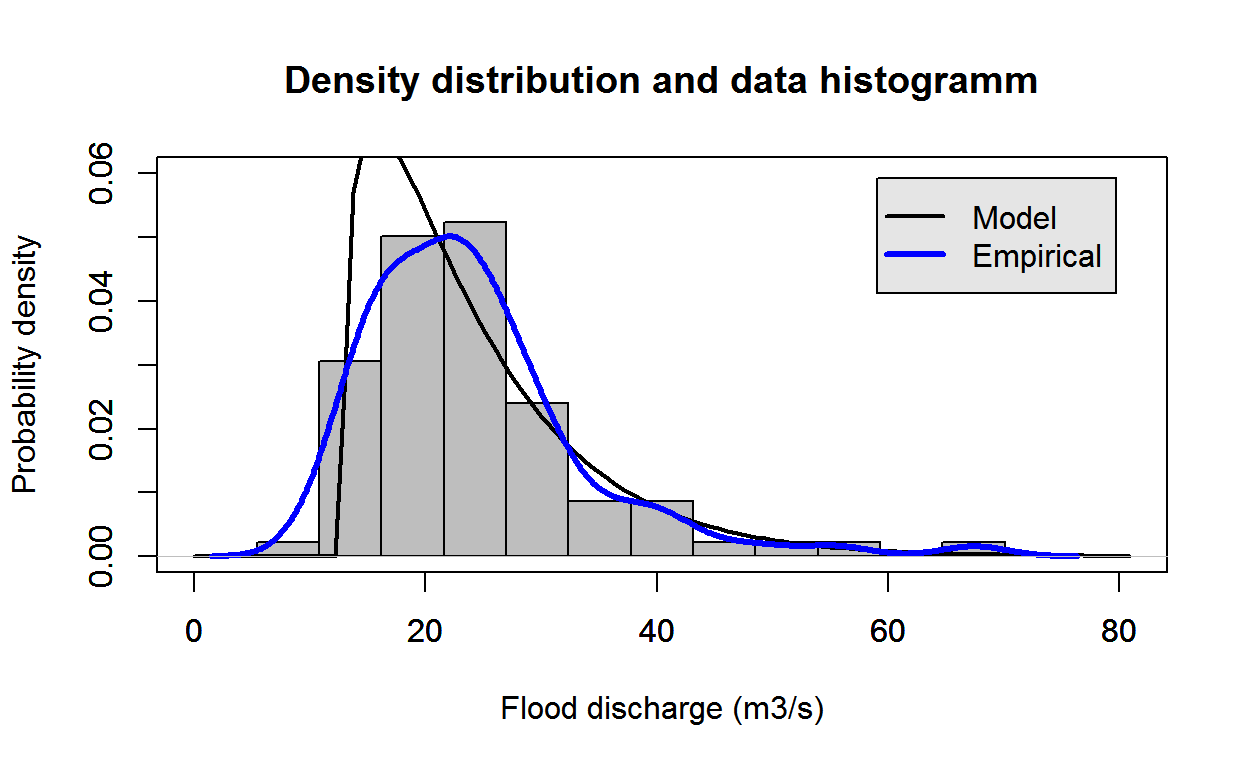
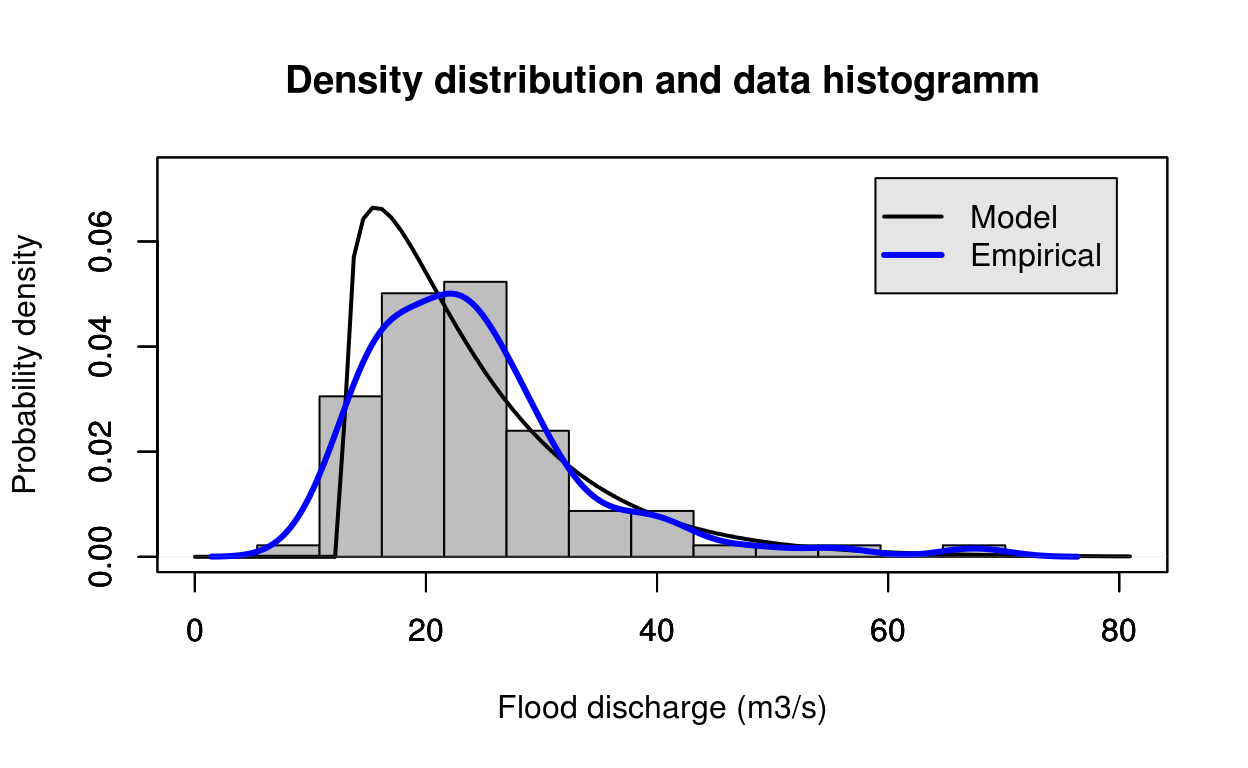
Travis update of gh-pages

diff --git a/rd.html b/rd.html
@@ -202,9 +202,9 @@ param Estimated parameters (2) and standard error returned as a list($estimate, 
 <h4>
 Examples
 </h4>
-<pre class="r"><code>library(FlomKart)
+<pre class="r"><code>library(FlomKartShinyApp)
 estimate = gamma_Lmom(test_data)
-plot_density(test_data, param = estimate, distr = &quot;gamma&quot;)</code></pre>
+FlomKartShinyApp::plot4server(test_data, param = estimate$estimate, distr = 2)</code></pre>
 <p><img src="rd_files/figure-html/gamma_Lmom_id_2-1.png" width="624" /></p>
 </div>
 <div id="gamma_mle" class="section level2">
@@ -242,9 +242,9 @@ param Estimated parameters (2) and standard error returned as a list($estimate, 
 <h4>
 Examples
 </h4>
-<pre class="r"><code>library(FlomKart)
+<pre class="r"><code>library(FlomKartShinyApp)
 estimate = gamma_mle(test_data)
-plot_density(test_data, param = estimate, distr = &quot;gamma&quot;)</code></pre>
+FlomKartShinyApp::plot4server(test_data, param = estimate$estimate, distr = 2)</code></pre>
 <p><img src="rd_files/figure-html/gamma_mle_id_3-1.png" width="624" /></p>
 </div>
 <div id="gamma_mom" class="section level2">
@@ -282,9 +282,9 @@ param Estimated parameters (2) and standard error returned as a list($estimate, 
 <h4>
 Examples
 </h4>
-<pre class="r"><code>library(FlomKart)
+<pre class="r"><code>library(FlomKartShinyApp)
 estimate = gamma_mom(test_data)
-plot_density(test_data, param = estimate, distr = &quot;gamma&quot;)</code></pre>
+FlomKartShinyApp::plot4server(test_data, param = estimate$estimate, distr = 2)</code></pre>
 <p><img src="rd_files/figure-html/gamma_mom_id_4-1.png" width="624" /></p>
 </div>
 <div id="get_posterior_gev" class="section level2">
@@ -454,9 +454,9 @@ param Estimated parameters and standard error returned as a list($estimate, $se)
 <h4>
 Examples
 </h4>
-<pre class="r"><code>library(FlomKart)
+<pre class="r"><code>library(FlomKartShinyApp)
 estimate = gev_bayes(test_data)
-plot_density(test_data, param = estimate, distr = &quot;gev&quot;)</code></pre>
+FlomKartShinyApp::plot4server(test_data, param = estimate$estimate, distr = 3)</code></pre>
 <p><img src="rd_files/figure-html/gev_bayes_id_9-1.png" width="624" /></p>
 </div>
 <div id="gev_lmom" class="section level2">
@@ -494,9 +494,9 @@ param Estimated parameters and standard error returned as a list($estimate, $se)
 <h4>
 Examples
 </h4>
-<pre class="r"><code>library(FlomKart)
+<pre class="r"><code>library(FlomKartShinyApp)
 estimate = gev_Lmom(test_data)
-plot_density(test_data, param = estimate, distr = &quot;gev&quot;)</code></pre>
+FlomKartShinyApp::plot4server(test_data, param = estimate$estimate, distr = 3)</code></pre>
 <p><img src="rd_files/figure-html/gev_Lmom_id_10-1.png" width="624" /></p>
 <h4>
 See also
@@ -538,9 +538,9 @@ param Estimated parameters and standard error returned as a list($estimate, $se)
 <h4>
 Examples
 </h4>
-<pre class="r"><code>library(FlomKart)
+<pre class="r"><code>library(FlomKartShinyApp)
 estimate = gev_mle(test_data)
-plot_density(test_data, param = estimate, distr = &quot;gev&quot;)</code></pre>
+FlomKartShinyApp::plot4server(test_data, param = estimate$estimate, distr = 3)</code></pre>
 <p><img src="rd_files/figure-html/gev_mle_id_11-1.png" width="624" /></p>
 <h4>
 See also
@@ -582,9 +582,9 @@ param Estimated parameters and standard error returned as a list($estimate, $se)
 <h4>
 Examples
 </h4>
-<pre class="r"><code>library(FlomKart)
+<pre class="r"><code>library(FlomKartShinyApp)
 estimate = gev_mom(test_data)
-plot_density(test_data, param = estimate, distr = &quot;gev&quot;)</code></pre>
+FlomKartShinyApp::plot4server(test_data, param = estimate$estimate, distr = 3)</code></pre>
 <p><img src="rd_files/figure-html/gev_mom_id_12-1.png" width="624" /></p>
 <h4>
 See also
@@ -626,9 +626,9 @@ param Estimated parameters and standard error returned as a list($estimate, $se)
 <h4>
 Examples
 </h4>
-<pre class="r"><code>library(FlomKart)
+<pre class="r"><code>library(FlomKartShinyApp)
 estimate = gl_bayes(test_data)
-plot_density(test_data, param = estimate, distr = &quot;gl&quot;)</code></pre>
+FlomKartShinyApp::plot4server(test_data, param = estimate$estimate, distr = 4)</code></pre>
 <pre><code>## Warning in log(1 - k * (x - xi)/alfa): NaNs produced</code></pre>
 <p><img src="rd_files/figure-html/gl_bayes_id_13-1.png" width="624" /></p>
 </div>
@@ -667,9 +667,9 @@ param Estimated parameters and standard error returned as a list($estimate, $se)
 <h4>
 Examples
 </h4>
-<pre class="r"><code>library(FlomKart)
+<pre class="r"><code>library(FlomKartShinyApp)
 estimate = gl_Lmom(test_data)
-plot_density(test_data, param = estimate, distr = &quot;gl&quot;)</code></pre>
+FlomKartShinyApp::plot4server(test_data, param = estimate$estimate, distr = 4)</code></pre>
 <pre><code>## Warning in log(1 - k * (x - xi)/alfa): NaNs produced</code></pre>
 <p><img src="rd_files/figure-html/gl_Lmom_id_14-1.png" width="624" /></p>
 </div>
@@ -685,7 +685,7 @@ Function to fit the GL distribution with the maximum likelihood method. This fun
 <h4>
 Usage
 </h4>
-<pre class="r"><code><div>gl_mle(xdat, ydat&nbsp;=&nbsp;NULL, mul&nbsp;=&nbsp;NULL, sigl&nbsp;=&nbsp;NULL, shl&nbsp;=&nbsp;NULL, mulink&nbsp;=&nbsp;identity, siglink&nbsp;=&nbsp;identity, shlink&nbsp;=&nbsp;identity, muinit&nbsp;=&nbsp;NULL, siginit&nbsp;=&nbsp;NULL, shinit&nbsp;=&nbsp;NULL, show&nbsp;=&nbsp;TRUE, method&nbsp;=&nbsp;"Nelder-Mead", maxit&nbsp;=&nbsp;10000, ...)</div></code></pre>
+<pre class="r"><code><div>gl_mle(xdat, ydat&nbsp;=&nbsp;NULL, mul&nbsp;=&nbsp;NULL, sigl&nbsp;=&nbsp;NULL, shl&nbsp;=&nbsp;NULL, mulink&nbsp;=&nbsp;identity, siglink&nbsp;=&nbsp;identity, shlink&nbsp;=&nbsp;identity, muinit&nbsp;=&nbsp;NULL, siginit&nbsp;=&nbsp;NULL, shinit&nbsp;=&nbsp;NULL, show&nbsp;=&nbsp;FALSE, method&nbsp;=&nbsp;"Nelder-Mead", maxit&nbsp;=&nbsp;10000, ...)</div></code></pre>
 <h4>
 Arguments
 </h4>
@@ -708,9 +708,9 @@ param Estimated parameters and standard error returned as a list($estimate, $se)
 <h4>
 Examples
 </h4>
-<pre class="r"><code>library(FlomKart)
+<pre class="r"><code>library(FlomKartShinyApp)
 estimate = gl_mle(test_data)
-plot_density(test_data, param = estimate, distr = &quot;gl&quot;)</code></pre>
+FlomKartShinyApp::plot4server(test_data, param = estimate$estimate, distr = 4)</code></pre>
 <pre><code>## Warning in log(1 - k * (x - xi)/alfa): NaNs produced</code></pre>
 <p><img src="rd_files/figure-html/gl_mle_id_15-1.png" width="624" /></p>
 </div>
@@ -749,9 +749,9 @@ param Estimated parameters and standard error returned as a list($estimate, $se)
 <h4>
 Examples
 </h4>
-<pre class="r"><code>library(FlomKart)
+<pre class="r"><code>library(FlomKartShinyApp)
 estimate = gl_mom(test_data)
-plot_density(test_data, param = estimate, distr = &quot;gl&quot;)</code></pre>
+FlomKartShinyApp::plot4server(test_data, param = estimate$estimate, distr = 4)</code></pre>
 <p><img src="rd_files/figure-html/gl_mom_id_16-1.png" width="624" /></p>
 </div>
 <div id="gumbel_bayes" class="section level2">
@@ -789,9 +789,9 @@ param Estimated parameters and standard error returned as a list($estimate, $se)
 <h4>
 Examples
 </h4>
-<pre class="r"><code>library(FlomKart)
+<pre class="r"><code>library(FlomKartShinyApp)
 estimate = gumbel_bayes(test_data)
-plot_density(test_data, param = estimate, distr = &quot;gumbel&quot;)</code></pre>
+FlomKartShinyApp::plot4server(test_data, param = estimate$estimate, distr = 1)</code></pre>
 <p><img src="rd_files/figure-html/gumbel_bayes_id_17-1.png" width="624" /></p>
 </div>
 <div id="gumbel_lmom" class="section level2">
@@ -829,9 +829,9 @@ param Estimated parameters (2) and standard error returned as a list($estimate, 
 <h4>
 Examples
 </h4>
-<pre class="r"><code>library(FlomKart)
+<pre class="r"><code>library(FlomKartShinyApp)
 estimate = gumbel_Lmom(test_data)
-plot_density(test_data, param = estimate, distr = &quot;gumbel&quot;)</code></pre>
+FlomKartShinyApp::plot4server(test_data, param = estimate$estimate, distr = 1)</code></pre>
 <p><img src="rd_files/figure-html/gumbel_Lmom_id_18-1.png" width="624" /></p>
 </div>
 <div id="gumbel_mle" class="section level2">
@@ -869,9 +869,9 @@ param Estimated parameters (2) and standard error returned as a list($estimate, 
 <h4>
 Examples
 </h4>
-<pre class="r"><code>library(FlomKart)
+<pre class="r"><code>library(FlomKartShinyApp)
 estimate = gumbel_mle(test_data)
-plot_density(test_data, param = estimate, distr = &quot;gumbel&quot;)</code></pre>
+FlomKartShinyApp::plot4server(test_data, param = estimate$estimate, distr = 1)</code></pre>
 <p><img src="rd_files/figure-html/gumbel_mle_id_19-1.png" width="624" /></p>
 </div>
 <div id="gumbel_mom" class="section level2">
@@ -909,9 +909,9 @@ param Estimated parameters (2) and standard error returned as a list($estimate, 
 <h4>
 Examples
 </h4>
-<pre class="r"><code>library(FlomKart)
+<pre class="r"><code>library(FlomKartShinyApp)
 estimate = gumbel_mom(test_data)
-plot_density(test_data, param = estimate, distr = &quot;gumbel&quot;)</code></pre>
+FlomKartShinyApp::plot4server(test_data, param = estimate$estimate, distr = 1)</code></pre>
 <p><img src="rd_files/figure-html/gumbel_mom_id_20-1.png" width="624" /></p>
 </div>
 <div id="pearson_bayes" class="section level2">
@@ -949,9 +949,9 @@ param Estimated parameters and standard error returned as a list($estimate, $se)
 <h4>
 Examples
 </h4>
-<pre class="r"><code>library(FlomKart)
+<pre class="r"><code>library(FlomKartShinyApp)
 estimate = pearson_bayes(test_data)
-plot_density(test_data, param = estimate, distr = &quot;pearson&quot;)</code></pre>
+FlomKartShinyApp::plot4server(test_data, param = estimate$estimate, distr = 5)</code></pre>
 <p><img src="rd_files/figure-html/pearson_bayes_id_21-1.png" width="624" /></p>
 </div>
 <div id="pearson_lmom" class="section level2">
@@ -989,9 +989,9 @@ param Estimated parameters and standard error returned as a list($estimate, $se)
 <h4>
 Examples
 </h4>
-<pre class="r"><code>library(FlomKart)
+<pre class="r"><code>library(FlomKartShinyApp)
 estimate = pearson_Lmom(test_data)
-plot_density(test_data, param = estimate, distr = &quot;pearson&quot;)</code></pre>
+FlomKartShinyApp::plot4server(test_data, param = estimate$estimate, distr = 5)</code></pre>
 <p><img src="rd_files/figure-html/pearson_Lmom_id_22-1.png" width="624" /></p>
 </div>
 <div id="pearson_mle" class="section level2">
@@ -1029,9 +1029,9 @@ param Estimated parameters and standard error returned as a list($estimate, $se)
 <h4>
 Examples
 </h4>
-<pre class="r"><code>library(FlomKart)
+<pre class="r"><code>library(FlomKartShinyApp)
 estimate = pearson_mle(test_data)
-plot_density(test_data, param = estimate, distr = &quot;pearson&quot;)</code></pre>
+FlomKartShinyApp::plot4server(test_data, param = estimate$estimate, distr = 5)</code></pre>
 <p><img src="rd_files/figure-html/pearson_mle_id_23-1.png" width="624" /></p>
 </div>
 <div id="pearson_mom" class="section level2">
@@ -1069,9 +1069,9 @@ param Estimated parameters and standard error returned as a list($estimate, $se)
 <h4>
 Examples
 </h4>
-<pre class="r"><code>library(FlomKart)
+<pre class="r"><code>library(FlomKartShinyApp)
 estimate = pearson_mom(test_data)
-plot_density(test_data, param = estimate, distr = &quot;pearson&quot;)</code></pre>
+FlomKartShinyApp::plot4server(test_data, param = estimate$estimate, distr = 5)</code></pre>
 <p><img src="rd_files/figure-html/pearson_mom_id_24-1.png" width="624" /></p>
 </div>
 </div>

diff --git a/index.html b/index.html
@@ -70,33 +70,22 @@
             <div class="col-md-3" id="sidebar-col">
         <div id="toc">
           <ul>
-          <li><a href="#header-1">Header 1</a></li>
-          <li><a href="#example">Example</a></li>
+          <li><a href="#what-is-the-fitdistrib-package">What is the fitdistrib package?</a></li>
+          <li><a href="#how-was-it-coded">How was it coded?</a></li>
           </ul>
         </div>
       </div>
       <div class="col-md-9" id="content-col">
       
 <div id="content-top"></div>
-<div id="header-1" class="section level1">
-<h1>Header 1</h1>
-<p>Welcome to the fitdistrib Documentation documentation page.</p>
+<div id="what-is-the-fitdistrib-package" class="section level1">
+<h1>What is the fitdistrib package?</h1>
+<p>This package is a set a functions developed with the FlomKart flood frequency analysis project at NVE. It allows estimated probability distribution parameters for the following distributions and estimation methods:</p>
+<p>Those results of this package are used in the <code>FlomKart</code>package (<a href="http://NVE.github.io/FlomKart">doc</a> and <a href="http://github.com/NVE/FlomKart">code</a>) to build 2 NetCDF files which can then be explored with the NASA’s NetCDF viewer <a href="http://www.giss.nasa.gov/tools/panoply/">Panoply</a> or by our dedicated FlomKart shiny app (<a href="http://NVE.github.io/FlomKart_ShinyApp">doc</a> and <a href="http://github.com/NVE/FlomKart_ShinyApp">code</a>).</p>
 </div>
-<div id="example" class="section level1">
-<h1>Example</h1>
-<p>This is an R Markdown document. Markdown is a simple formatting syntax for authoring HTML, PDF, and MS Word documents. For more details on using R Markdown see <a href="http://rmarkdown.rstudio.com" class="uri">http://rmarkdown.rstudio.com</a>.</p>
-<p>You can embed an R code chunk like this:</p>
-<pre class="r"><code>summary(cars)</code></pre>
-<pre><code>     speed           dist       
- Min.   : 4.0   Min.   :  2.00  
- 1st Qu.:12.0   1st Qu.: 26.00  
- Median :15.0   Median : 36.00  
- Mean   :15.4   Mean   : 42.98  
- 3rd Qu.:19.0   3rd Qu.: 56.00  
- Max.   :25.0   Max.   :120.00  </code></pre>
-<p>You can also embed plots, for example:</p>
-<p><img src="index_files/figure-html/unnamed-chunk-2-1.png" width="624" /></p>
-<p>Note that the <code>echo = FALSE</code> parameter was added to the code chunk to prevent printing of the R code that generated the plot.</p>
+<div id="how-was-it-coded" class="section level1">
+<h1>How was it coded?</h1>
+<p>In <a href="http://NVE.github.io/fitdistrib/rd.html">Package Ref</a>, you’ll find the documentation of all the packaged functions. This package uses the existing R packages <code>nsRFA</code>, <code>evd</code>, <code>ismev</code>, <code>fitdistrplus</code> and <code>stats</code>. The use of functions from those packages is adapted to our context. Some new fitting functions were also implemented when not already available.</p>
 </div>
 
 
